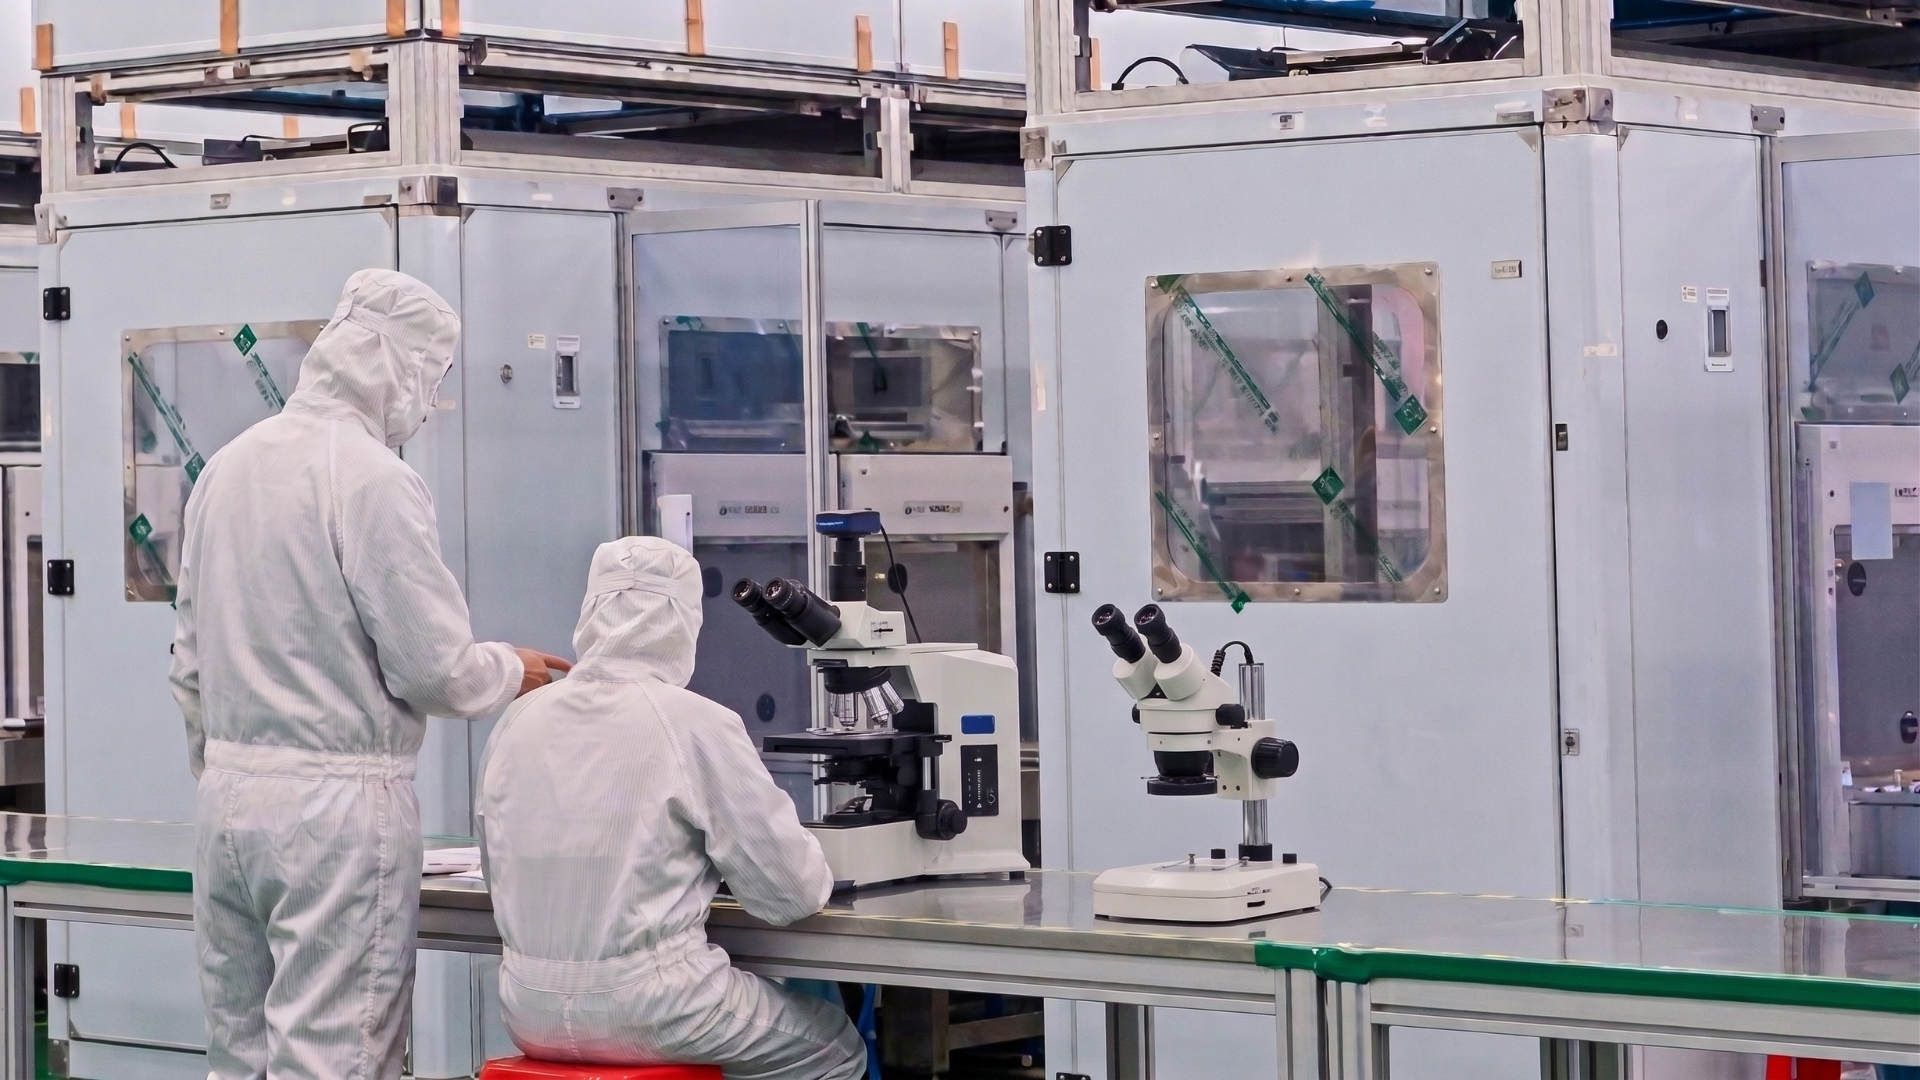
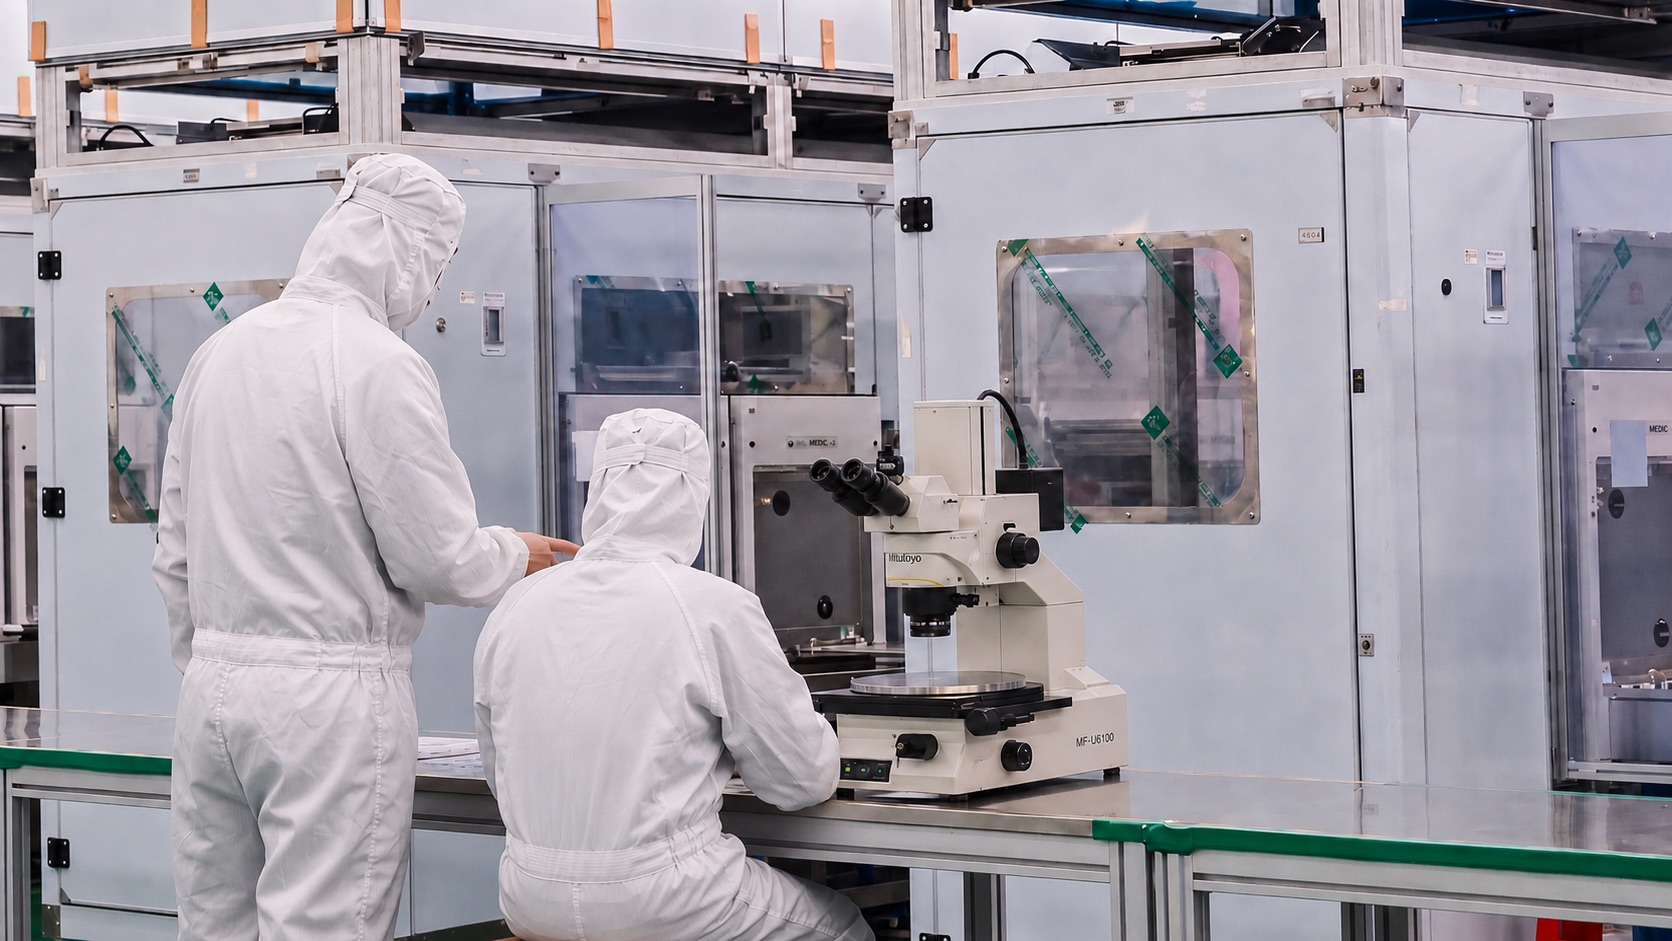
Add files via upload

diff --git a/js/data.js b/js/data.js
@@ -3,14 +3,14 @@
    every string here is the client-approved final text from the design chats. */
 const SITE_DATA = {
   zh: {
-    nav: { about: '關於逢甲', global: '台美合作方案', labs: '產學共建實驗室', highlight: '亮點成果', partners: '合作夥伴' },
+    nav: { about: '關於逢甲', global: '臺美合作方案', labs: '產學共建實驗室', highlight: '亮點成果', partners: '合作夥伴' },
     hero: {
       badge: '116 學年度成立',
       title: '半導體學院',
       titleSub: 'College of Semiconductor',
       desc: '全國唯一涵蓋 IC 設計／EDA、元件／整合、製程／封測，以及半導體設備研發／數位孿生設計／製造的完整育才體系，培育具實作能力、產業經驗與國際視野，畢業即上線的半導體專才。',
       ctaPrimary: '探索全產業鏈',
-      ctaSecondary: '台美合作方案',
+      ctaSecondary: '臺美合作方案',
       note: '逢甲大學名列輝達執行長黃仁勳「GTC Taipei」主題演講供應鏈背板大學名單',
       stats: [
         { value: '1961年', label: '創校年份' },
@@ -22,7 +22,7 @@ const SITE_DATA = {
     about: {
       kicker: 'ABOUT FCU',
       title: '關於逢甲',
-      body: '逢甲大學緊鄰中科、精密機械園區及快速發展的水湳經貿園區，匯集台積電、台灣美光等科技大廠。本校具備豐沛產官研資源，產學合作經費突破6億，穩居全臺綜合私校第一。\n為精準對接產業需求，逢甲攜手台積電、美光、旺宏等企業開設冠名學程，其中申請修習「台積電半導體學程」人數，居全臺之首。116學年度更將成立涵蓋全產業鏈的「半導體學院」，結合志聖等企業與水湳校區的創新動能，穩健培育具備高度實戰力的半導體尖端人才。',
+      body: '逢甲大學緊鄰中科、精密機械園區及快速發展的水湳經貿園區，匯集台積電、臺灣美光等科技大廠。本校具備豐沛產官研資源，產學合作經費突破6億，穩居全臺綜合私校第一。\n為精準對接產業需求，逢甲攜手台積電、美光、旺宏等企業開設冠名學程，其中申請修習「台積電半導體學程」人數，居全臺之首。116學年度更將成立涵蓋全產業鏈的「半導體學院」，結合志聖等企業與水湳校區的創新動能，穩健培育具備高度實戰力的半導體尖端人才。',
       imgLabel: '共善樓．逢甲大學'
     },
     chain: {
@@ -45,7 +45,7 @@ const SITE_DATA = {
         {
           num: '01',
           title: '半導體探索與臺灣產業體驗短期研習課程',
-          duration: '2～4 週，可依美方學校需求調整',
+          duration: '2-4 週，可依美方學校需求調整',
           desc: '以美國高中生或大學生為對象，設計半導體入門、臺灣半導體產業概況、後段製程、量測與測試基礎等主題，搭配校內實驗室參訪、基礎實作、企業參訪及專業華語課程，協助學生理解半導體產業鏈、臺灣產業優勢與實務應用情境。',
           tracksLabel: '課程主題',
           tracks: ['半導體入門與臺灣產業概況', '後段製程、量測與測試基礎', '校內實驗室參訪與基礎實作', '企業參訪與專業華語課程'],
@@ -53,7 +53,7 @@ const SITE_DATA = {
           targetLabel: '招收對象',
           target: '高中生和大學部學生',
           companiesLabel: '合作企業（洽談中）',
-          companies: '欣銓科技、矽品精密工業、台灣美光、旺宏電子、志聖工業'
+          companies: '欣銓科技、矽品精密工業、臺灣美光、旺宏電子、志聖工業'
         },
         {
           num: '02',
@@ -105,7 +105,7 @@ const SITE_DATA = {
     highlight: {
       badge: '首屆 TSIA 半導體設備創新獎',
       title: '工科院王啟昌團隊 榮獲首屆 TSIA 半導體設備創新獎',
-      desc: '台灣半導體產業協會（TSIA）首次頒發此獎，全國僅三所大專校院獲獎。王啟昌院長率領綠色動力實驗室團隊，以「結合熱力、固力模擬分析及 AI 技術，改善先進封裝設備加熱爐系統」獲此殊榮，為即將成立的半導體學院打下堅實產學基礎。',
+      desc: '臺灣半導體產業協會（TSIA）首次頒發此獎，全國僅三所大專校院獲獎。王啟昌院長率領綠色動力實驗室團隊，以「結合熱力、固力模擬分析及 AI 技術，改善先進封裝設備加熱爐系統」獲此殊榮，為即將成立的半導體學院打下堅實產學基礎。',
       quote: '將產業的真實問題帶回實驗室，是技術研發與人才培育的根本。',
       quoteBy: '王啟昌．逢甲大學工程科學學院院長',
       linkLabel: '閱讀完整新聞報導',
@@ -128,7 +128,7 @@ const SITE_DATA = {
           photoLabel: '先進封裝無塵室示意圖',
           partnerLabel: '逢甲大學 X 志聖工業 C SUN',
           title: '先進封裝無塵室',
-          desc: '志聖工業是台灣頂尖的半導體先進封裝設備供應商，為台積電（TSMC）擴充 AI 晶片產能的關鍵夥伴。志聖專精於熱處理與壓膜技術，全力支援台積電 CoWoS 等先進封裝製程。憑藉卓越的設備可靠度與技術創新，志聖屢次榮獲台積電「優良供應商獎」。'
+          desc: '志聖工業是臺灣頂尖的半導體先進封裝設備供應商，為台積電（TSMC）擴充 AI 晶片產能的關鍵夥伴。志聖專精於熱處理與壓膜技術，全力支援台積電 CoWoS 等先進封裝製程。憑藉卓越的設備可靠度與技術創新，志聖屢次榮獲台積電「優良供應商獎」。'
         }
       ]
     },
@@ -148,7 +148,7 @@ const SITE_DATA = {
         {
           photo: 'assets/fcu-micron.jpg',
           photoLabel: '近 400 位師生齊聚共善樓大講堂，共同關注 AI 與記憶體創新所帶來的產業新契機',
-          logoLabel: 'Micron 台灣美光',
+          logoLabel: 'Micron 臺灣美光',
           title: '美光企業委訓與產學人才培育',
           desc: '逢甲大學產學經營與人才培訓中心為美光 NTP 培訓基地，已共同推動多項專業人才培育計畫，包含配合台中市政府勞工局與勞動部辦理「半導體生產製造與設備工程師訓練班」、美光企業委訓工作坊等實務課程，協助學生及學員縮短學用落差。',
           linkLabel: '前往逢甲大學產學經營與人才培育中心',
@@ -159,7 +159,7 @@ const SITE_DATA = {
           photoLabel: '逢甲大學 x 志聖工業產學聯盟合作備忘錄簽約暨共建實驗室與設備捐贈典禮',
           logoLabel: 'C SUN 志聖工業',
           title: '前瞻能源與熱管理實驗室共建計畫',
-          desc: '台灣製程設備產業領導者志聖工業長期支持科技創新與教育發展，自 2022 年起無條件捐贈逢甲大學五年五百萬元，設立「志聖工業團隊創新激勵發展基金」，鼓勵師生共組團隊，推動跨領域創新計畫；2025 年更捐贈儀器設備與逢甲共建「前瞻能源與熱管理實驗室」。',
+          desc: '臺灣製程設備產業領導者志聖工業長期支持科技創新與教育發展，自 2022 年起無條件捐贈逢甲大學五年五百萬元，設立「志聖工業團隊創新激勵發展基金」，鼓勵師生共組團隊，推動跨領域創新計畫；2025 年更捐贈儀器設備與逢甲共建「前瞻能源與熱管理實驗室」。',
           linkLabel: '閱讀完整新聞報導',
           url: 'https://www.fcu.edu.tw/news/2025050902/'
         },

diff --git a/index.html b/index.html
@@ -4,6 +4,9 @@
 <meta charset="utf-8">
 <meta name="viewport" content="width=device-width, initial-scale=1">
 <title>逢甲大學 半導體學院 | College of Semiconductor, FCU</title>
+<meta name="description" content="逢甲大學緊鄰中科、精密機械園區及快速發展的水湳經貿園區，匯集台積電、台灣美光等科技大廠，具備豐沛產官研資源，致力培育具實作能力、產業銜接力的半導體人才。">
+<meta property="og:title" content="逢甲大學 半導體學院 | College of Semiconductor, FCU">
+<meta property="og:description" content="逢甲大學緊鄰中科、精密機械園區及快速發展的水湳經貿園區，匯集台積電、台灣美光等科技大廠，具備豐沛產官研資源，致力培育具實作能力、產業銜接力的半導體人才。">
 <link rel="preconnect" href="https://fonts.googleapis.com">
 <link href="https://fonts.googleapis.com/css2?family=Noto+Sans+TC:wght@400;500;700;900&family=Space+Grotesk:wght@500;600;700&display=swap" rel="stylesheet">
 <link rel="stylesheet" href="css/style.css">